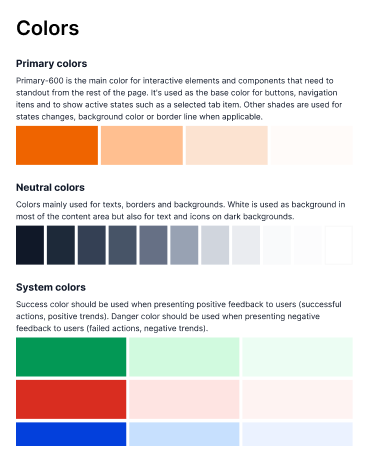
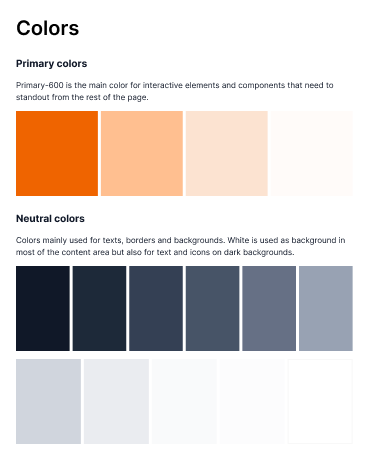
updadted

diff --git a/src/screen/projects/Projects.jsx b/src/screen/projects/Projects.jsx
@@ -50,26 +50,26 @@ const Projects = () => {
     });
   };
 
-  useEffect(() => {
-    const el = carouselRef.current;
-    if (!el) return;
+  // useEffect(() => {
+  //   const el = carouselRef.current;
+  //   if (!el) return;
 
-    const interval = setInterval(() => {
-      if (isHovered.current) return;
+  //   const interval = setInterval(() => {
+  //     if (isHovered.current) return;
 
-      const card = el.querySelector("a");
-      if (!card) return;
+  //     const card = el.querySelector("a");
+  //     if (!card) return;
 
-      const cardWidth = card.offsetWidth + 24;
+  //     const cardWidth = card.offsetWidth + 24;
 
-      el.scrollBy({
-        left: cardWidth,
-        behavior: "smooth",
-      });
-    }, 2000);
+  //     el.scrollBy({
+  //       left: cardWidth,
+  //       behavior: "smooth",
+  //     });
+  //   }, 2000);
 
-    return () => clearInterval(interval);
-  }, []);
+  //   return () => clearInterval(interval);
+  // }, []);
 
   useEffect(() => {
     window.scrollTo(0, 0);
@@ -153,7 +153,7 @@ const Projects = () => {
                   <img
                     src={require(`../../assets/${previewmb}.png`)}
                     alt="preview-img"
-                    className="lg:hidden w-full h-full object-contain"
+                    className="lg:hidden w-full h-full"
                   />
                 </div>
               </Link>
@@ -308,9 +308,8 @@ const Projects = () => {
               ))}
             </div>
           </div>
-
-          <Connect />
         </div>
+        <Connect />
       </div>
       <Footer />
     </div>

diff --git a/src/components/connect/index.jsx b/src/components/connect/index.jsx
@@ -2,7 +2,7 @@ import React from "react";
 
 const Connect = () => {
   return (
-    <div className="mt-32 lg:mt-60">
+    <div className="mt-32 lg:mt-60 px-4 md:px-20 lg:px-32">
       <h6 className="font-baskervville text-3xl md:text-5xl lg:text-6xl mb-6 font-medium lg:max-w-[90%] leading-[1.25] md:leading-[1.3] lg:leading-[1.35]">
         Let's connect if you're looking for a designer who can think
         strategically, execute meticulously, and maybe crack a bad joke or two
@@ -14,14 +14,15 @@ const Connect = () => {
           href="https://www.linkedin.com/in/doris-paulruth-7053891aa"
           target="_blank"
           rel="noopener noreferrer"
-          className="w-[384px] h-[107px] flex justify-center items-center rounded-full border-2 border-[#FF8D28] font-semibold text-xl lg:text-2xl hover:bg-[#FF8D28] hover:text-white transition"
+          className="w-full h-[90px] md:w-[384px] md:h-[107px] flex justify-center items-center rounded-full border-2 border-[#FF8D28] font-semibold text-xl lg:text-2xl hover:bg-[#FF8D28] hover:text-white transition"
         >
           LinkedIn
         </a>
 
         <a
-          href="mailto:[email redacted]"
-          className="w-[384px] h-[107px] flex justify-center items-center rounded-full border-2 border-[#FF8D28] font-semibold text-xl lg:text-2xl hover:bg-[#FF8D28] hover:text-white transition"
+          href="mailto:[email redacted]?subject=Let’s%20Connect"
+          target="_self"
+          className="w-full h-[90px] md:w-[384px] md:h-[107px] flex justify-center items-center rounded-full border-2 border-[#FF8D28] font-semibold text-xl lg:text-2xl hover:bg-[#FF8D28] hover:text-white transition"
         >
           Email
         </a>

diff --git a/src/components/navBar/NavBar.jsx b/src/components/navBar/NavBar.jsx
@@ -78,7 +78,8 @@ const NavBar = () => {
           </a>
 
           <a
-            href="mailto:[email redacted]"
+            href="mailto:[email redacted]?subject=Let’s%20Connect"
+            target="_self"
             onClick={() => setOpen(false)}
             className="hover:text-dark-orange"
           >
@@ -130,7 +131,8 @@ const NavBar = () => {
           </a>
 
           <a
-            href="mailto:[email redacted]"
+            href="mailto:[email redacted]?subject=Let’s%20Connect"
+            target="_self"
             onClick={() => setOpen(false)}
             className="hover:text-dark-orange"
           >

diff --git a/src/index.css b/src/index.css
@@ -1,4 +1,4 @@
-@import url('https://fonts.googleapis.com/css2?family=Baskervville:ital@0;1&display=swap');
+@import url("https://fonts.googleapis.com/css2?family=Baskervville:ital@0;1&display=swap");
 
 @tailwind base;
 @tailwind components;
@@ -19,9 +19,10 @@ body {
   font-family: "Glowgirl", cursive;
   -webkit-font-smoothing: antialiased;
   -moz-osx-font-smoothing: grayscale;
-  background-image: linear-gradient(#fffdeb, #fffdeb);
   background-repeat: no-repeat;
   min-height: 100vh;
+  background-color: #fffdeb;
+  overscroll-behavior: none;
 }
 
 h1 {

diff --git a/src/components/footer/Footer.jsx b/src/components/footer/Footer.jsx
@@ -71,7 +71,8 @@ const Footer = () => {
           </a>
 
           <a
-            href="mailto:[email redacted]"
+            href="mailto:[email redacted]?subject=Let’s%20Connect"
+            target="_self"
             className="hover:text-dark-orange"
           >
             Email